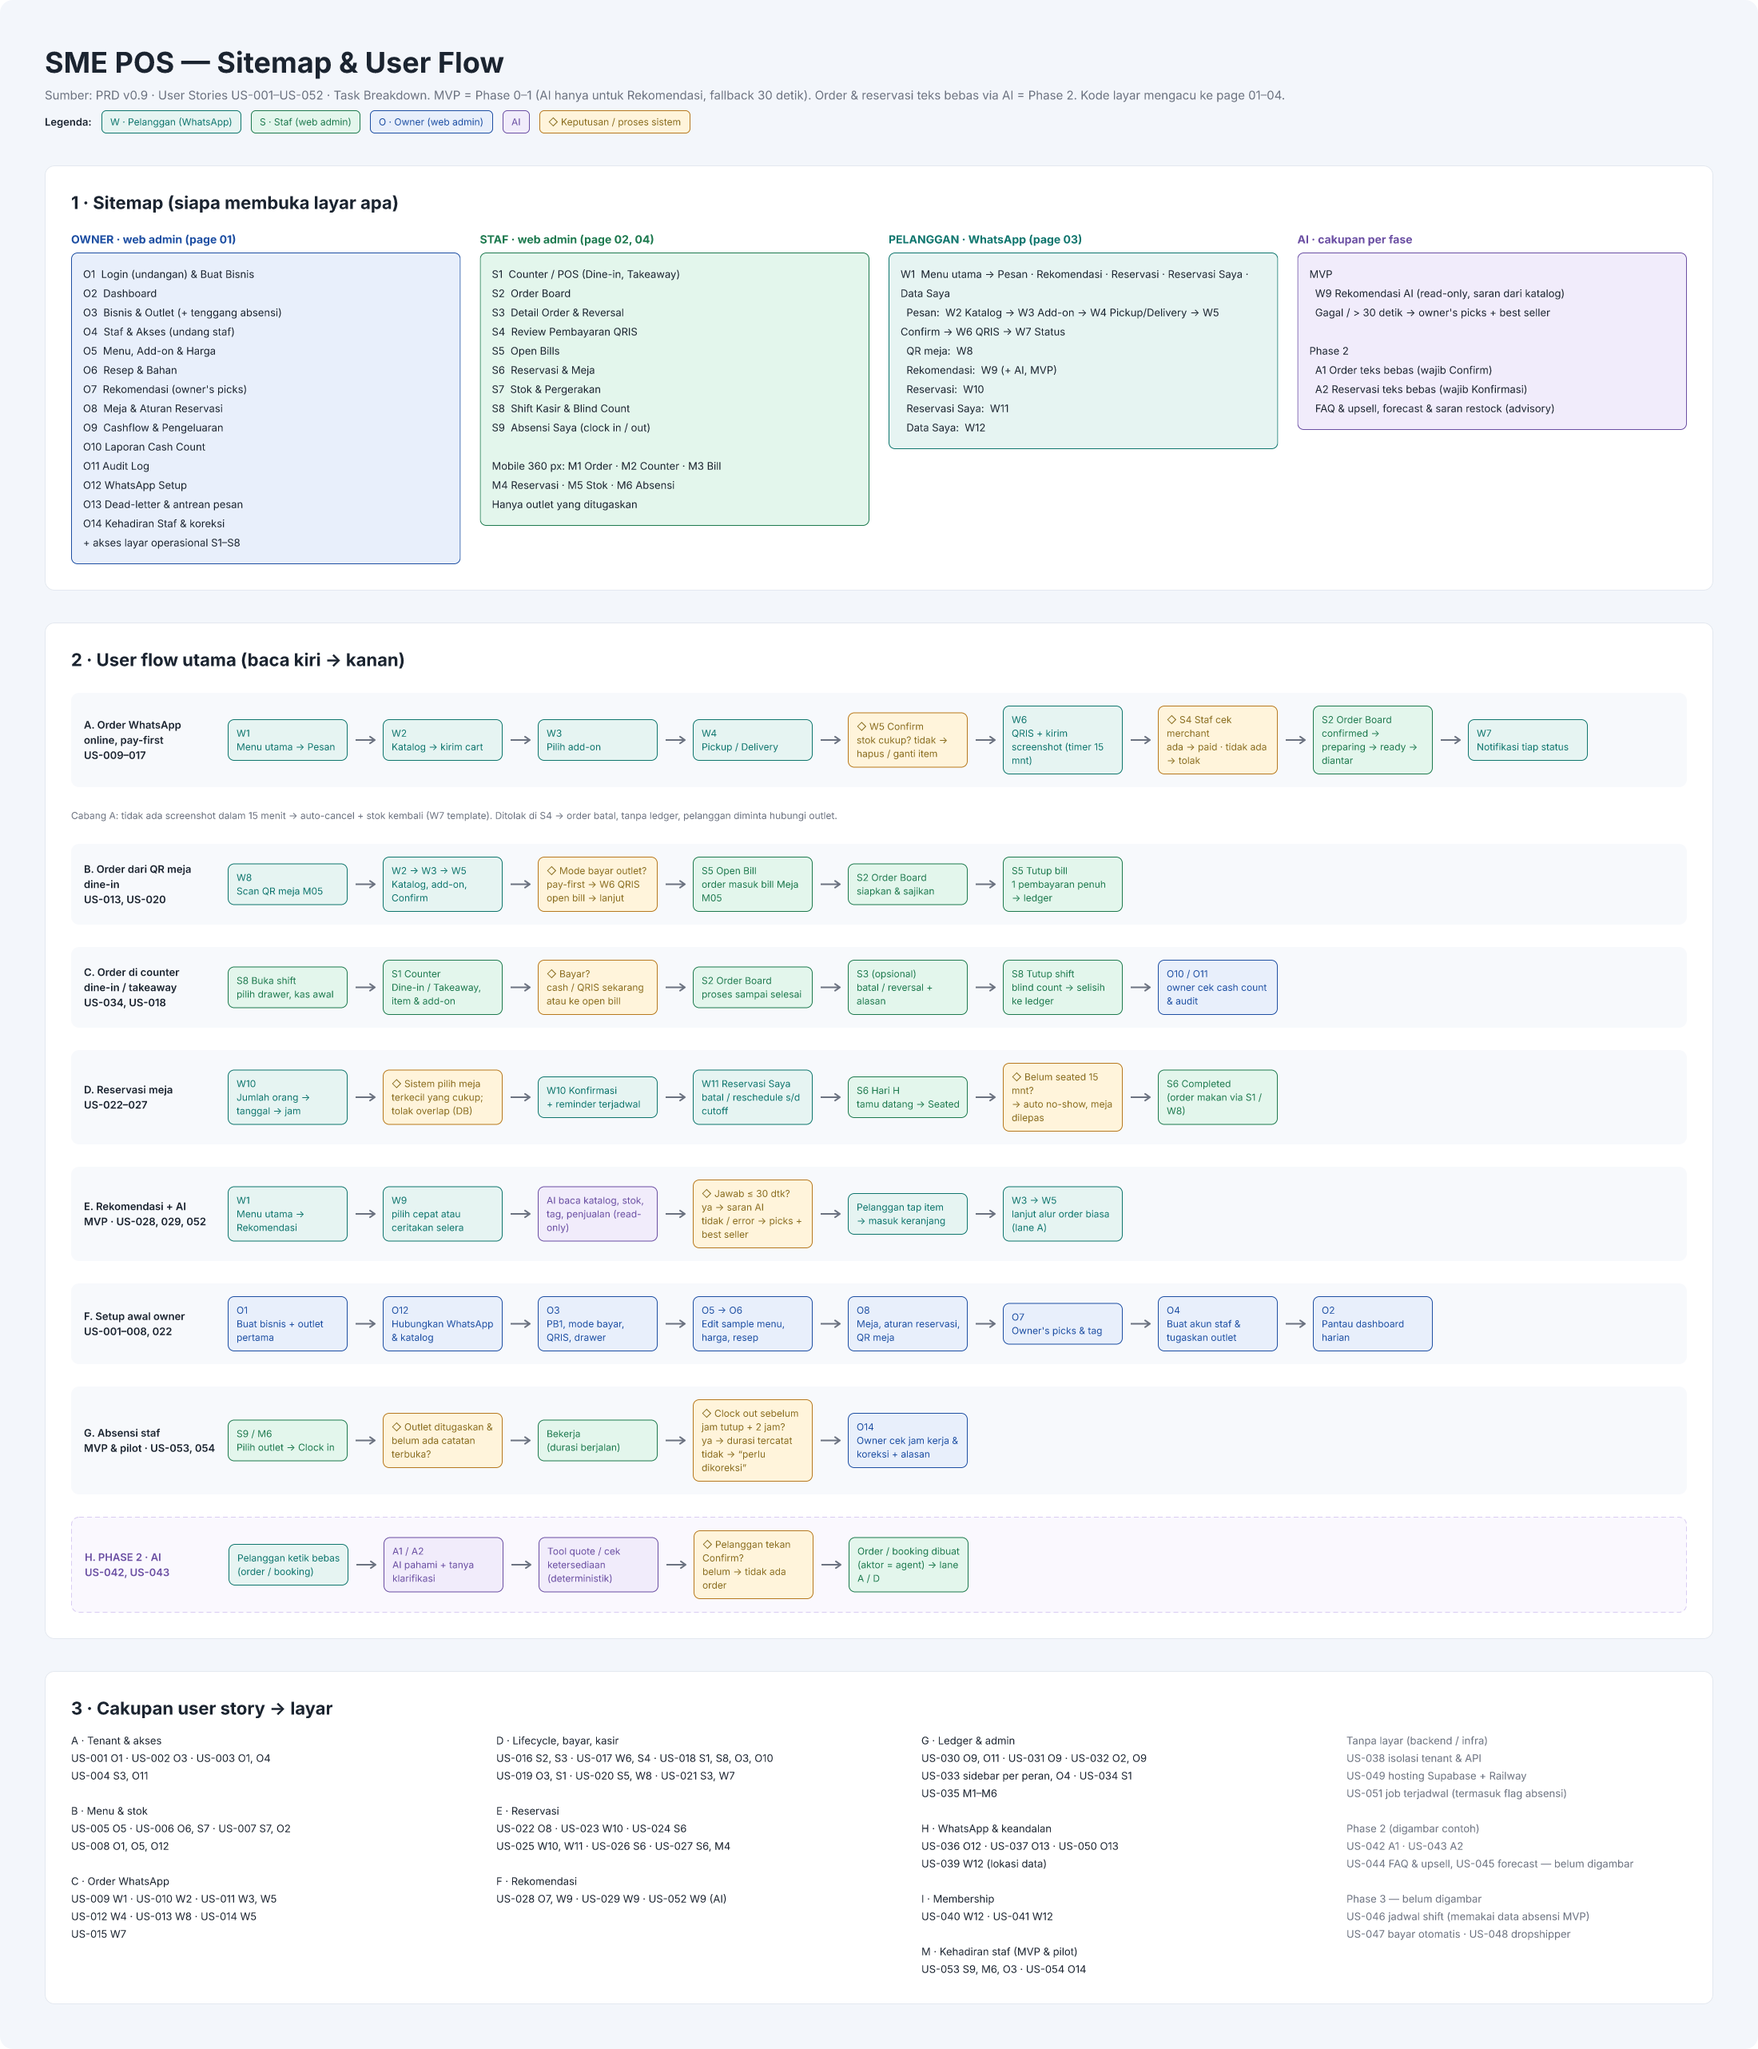
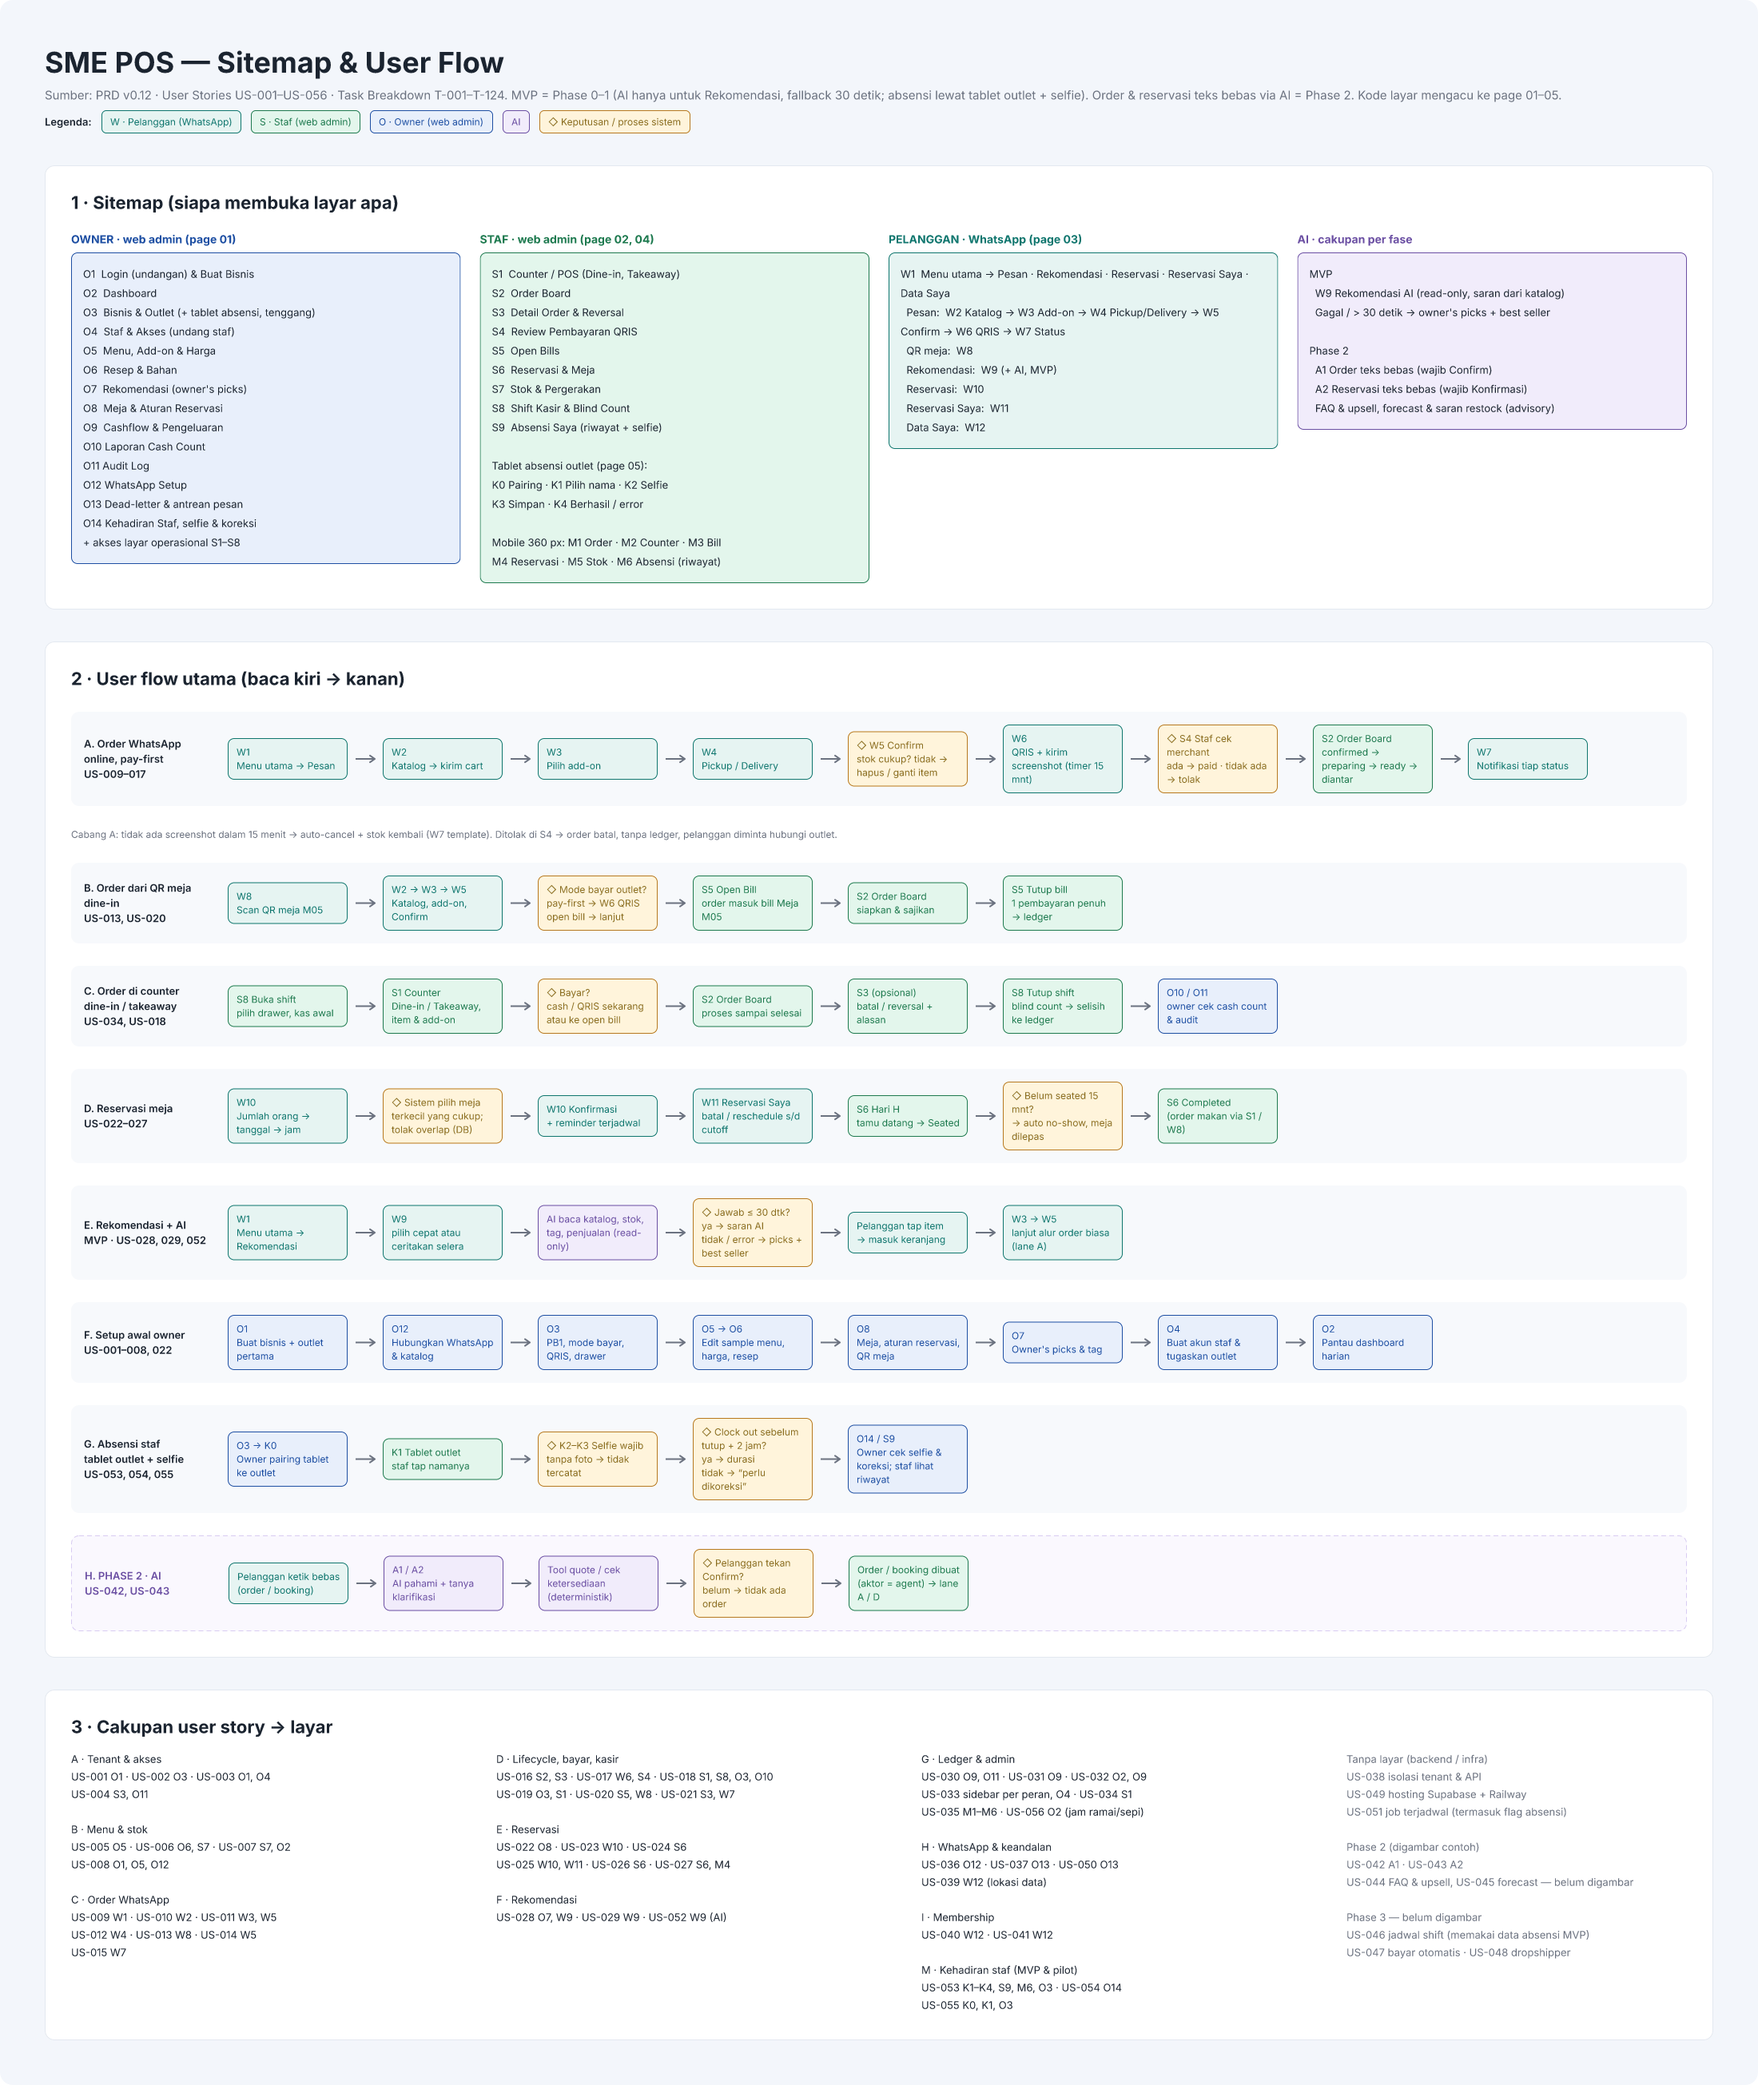
Add outlet attendance tablet wireframes and update traceability
Attendance is now recorded only on a paired outlet tablet with a
required selfie (PRD v0.11, US-053-US-055, T-116-T-122). Add page 05
with the tablet screens (pairing, pick name, selfie, confirm, result and
errors), turn S9 and M6 into read-only history, and add selfies and
tablet management to O14 and O3. The traceability table now covers
US-001-US-056 and T-001-T-124, including the busyness dashboard (US-056)
on O2. Previews are re-exported.

diff --git a/design/WIREFRAME-TRACEABILITY.md b/design/WIREFRAME-TRACEABILITY.md
@@ -2,7 +2,7 @@
 
 This document links every wireframe screen in [`SME-POS-Wireframe.figcraft`](SME-POS-Wireframe.figcraft) to the user stories in [User-Stories-SME-Automation-Platform.md](../User-Stories-SME-Automation-Platform.md) and the tasks in [Task-Breakdown-SME-Automation-Platform.md](../Task-Breakdown-SME-Automation-Platform.md).
 
-- **Baseline:** PRD v0.10, US-001–US-054, T-001–T-120.
+- **Baseline:** PRD v0.12, US-001–US-056, T-001–T-124.
 - **Open the file:** FigCraft (`figcraft SME-POS-Wireframe.figcraft`). PNG previews of each page are in [`previews/`](previews/).
 - **Labels:** every screen on the canvas has a label above it in the form `Code · Name — US-xxx · T-xxx`, matching the tables below.
 - **Fidelity:** low-to-mid fidelity wireframes. The colours follow the agreed reference (light sidebar, navy primary `#1E4FA3`, light-blue background `#F3F6FB`). Copy is in Bahasa Indonesia, as in the product.
@@ -16,6 +16,7 @@ This document links every wireframe screen in [`SME-POS-Wireframe.figcraft`](SME
 | 02 · Admin — Staff Ops | S1–S9 | [02-admin-staff.png](previews/02-admin-staff.png) |
 | 03 · WhatsApp Customer | W1–W12 (MVP), A1–A2 (Phase 2) | [03-whatsapp-customer.png](previews/03-whatsapp-customer.png) |
 | 04 · Mobile 360 | M1–M6 | [04-mobile-360.png](previews/04-mobile-360.png) |
+| 05 · Tablet Absensi Outlet | K0–K4 | [05-tablet-absensi.png](previews/05-tablet-absensi.png) |
 | 99 · Components | `Sidebar/Owner`, `Sidebar/Staff` | — |
 
 ## Screen → user story → task
@@ -25,8 +26,8 @@ This document links every wireframe screen in [`SME-POS-Wireframe.figcraft`](SME
 | Screen | User stories | Tasks |
 |---|---|---|
 | O1 Login (invite-only) & Buat Bisnis | US-001, US-002, US-003, US-008 | T-006, T-010, T-011, T-024, T-066 |
-| O2 Dashboard | US-032, US-033 | T-043, T-071 |
-| O3 Bisnis & Outlet (PB1, payment mode, QRIS, cash drawers, attendance grace period) | US-002, US-017, US-018, US-019, US-020, US-053 | T-011, T-014, T-039, T-066, T-118 |
+| O2 Dashboard + keramaian (busy/quiet hours, busyness map, current crowd) | US-007, US-032, US-033, US-056 | T-043, T-071, T-123, T-124 |
+| O3 Bisnis & Outlet (PB1, payment mode, QRIS, cash drawers, attendance tablets, grace period) | US-002, US-017, US-018, US-019, US-020, US-053, US-055 | T-011, T-014, T-039, T-066, T-118, T-121 |
 | O4 Staf & Akses (staff invitation, access matrix) | US-003, US-033 | T-006, T-012, T-013, T-066 |
 | O5 Menu, Add-on & Harga Outlet | US-002, US-005, US-008 | T-016, T-017, T-018, T-051, T-066 |
 | O6 Resep & Bahan | US-006, US-007 | T-019, T-021, T-022, T-066 |
@@ -37,7 +38,7 @@ This document links every wireframe screen in [`SME-POS-Wireframe.figcraft`](SME
 | O11 Audit Log | US-004, US-016, US-021 | T-031, T-101 |
 | O12 WhatsApp Setup & Template | US-002, US-008, US-015, US-036 | T-045, T-051, T-084, T-100 |
 | O13 Dead-letter & Antrean Pesan | US-036, US-037, US-050 | T-081, T-112 |
-| O14 Kehadiran Staf & Koreksi | US-053, US-054 | T-118, T-119 |
+| O14 Kehadiran Staf, Selfie & Koreksi | US-053, US-054 | T-118, T-119, T-122 |
 
 ### Staff (web admin)
 
@@ -51,7 +52,7 @@ This document links every wireframe screen in [`SME-POS-Wireframe.figcraft`](SME
 | S6 Reservasi & Meja (today) | US-024, US-026, US-027 | T-062, T-063, T-064, T-070 |
 | S7 Stok & Pergerakan | US-006, US-007 | T-020, T-022, T-069 |
 | S8 Shift Kasir & Blind Count | US-018, US-030 | T-039, T-040, T-070 |
-| S9 Absensi Saya (clock in / out) | US-053 | T-116, T-117 |
+| S9 Absensi Saya (own history and selfies; no clock-in here) | US-053 | T-116, T-117, T-122 |
 
 ### Customer (WhatsApp)
 
@@ -81,7 +82,17 @@ This document links every wireframe screen in [`SME-POS-Wireframe.figcraft`](SME
 | M3 Open Bill | US-020, US-035 | T-068, T-072 |
 | M4 Reservasi hari ini | US-026, US-027, US-035 | T-070, T-072 |
 | M5 Stok | US-006, US-007, US-035 | T-069, T-072 |
-| M6 Absensi | US-035, US-053 | T-072, T-117 |
+| M6 Absensi Saya (own history) | US-035, US-053 | T-072, T-117 |
+
+### Outlet attendance tablet
+
+| Screen | User stories | Tasks |
+|---|---|---|
+| K0 Pairing tablet ke outlet | US-055 | T-121 |
+| K1 Pilih nama staf | US-053, US-055 | T-116, T-117, T-121 |
+| K2 Ambil selfie (required) | US-053 | T-117, T-122 |
+| K3 Cek foto & simpan (+ first-use privacy notice) | US-053 | T-117, T-122 |
+| K4 Berhasil + error states (camera, offline, already clocked in, revoked tablet) | US-053, US-055 | T-117, T-121 |
 
 Role-aware navigation (`Sidebar/Owner`, `Sidebar/Staff`) covers US-003 and US-033 through T-013 and T-072.
 
@@ -136,8 +147,10 @@ Every MVP story has at least one screen, except the backend-only stories marked 
 | US-050 | O13 |
 | US-051 | — (scheduled jobs: T-104; the results show in W7, S6 and O14) |
 | US-052 | W9 |
-| US-053 | S9, M6, O3 |
+| US-053 | K1–K4, S9, M6, O3 |
 | US-054 | O14 |
+| US-055 | K0, K1, K4, O3 |
+| US-056 | O2 |
 | US-042 (Phase 2) | A1 |
 | US-043 (Phase 2) | A2 |
 | US-044, US-045 (Phase 2) | Not drawn yet |
@@ -165,6 +178,7 @@ Tasks that build a screen or a WhatsApp flow, and where to find them.
 | T-069 Stock screens | S7, M5 |
 | T-070 Reservation/table view and cashier shift | S6, S8, M4 |
 | T-071 Owner dashboard | O2 |
+| T-123, T-124 Busyness queries and dashboard views | O2 |
 | T-072 Role-aware navigation, 360 px responsive | sidebars, M1–M6 |
 | T-073 Owner picks, best sellers | O7, W9 |
 | T-074 Recommendation product message + add to cart | W9 |
@@ -175,9 +189,12 @@ Tasks that build a screen or a WhatsApp flow, and where to find them.
 | T-101 Audit log screen | O11 |
 | T-102 Cash count report | O10 |
 | T-112 Dead-letter visibility and replay | O13 |
-| T-117 Staff clock in/out screen | S9, M6 |
+| T-116 Attendance domain (tablet session, selfie required) | K1, S9 |
+| T-117 Attendance tablet screens + staff own history | K1–K4, S9, M6 |
 | T-118 Missing clock-out flag + grace-period setting | O3, O14, S9 |
-| T-119 Owner attendance report and corrections | O14 |
+| T-119 Owner attendance report, selfies and corrections | O14 |
+| T-121 Outlet attendance tablet pairing and device session | K0, K4, O3 |
+| T-122 Selfie storage, signed links, 90-day deletion | K2, K3, O14, S9 |
 | T-087, T-088 Phase 2 free-text order and reservation | A1, A2 |
 
 ## Decisions reflected in the wireframes
@@ -185,9 +202,10 @@ Tasks that build a screen or a WhatsApp flow, and where to find them.
 - Counter orders are **dine-in or takeaway** only; "walk-in" appears only as table occupancy for guests without a reservation (S6, M4).
 - AI in the MVP is limited to **Rekomendasi** (W9): read-only suggestions, an immediate "Sebentar ya…" reply, and a fallback to owner's picks + best sellers after an error or 30 seconds. Free-text ordering and booking are Phase 2 (A1, A2).
 - Staff accounts are **invite-only**; there is no public sign-up (O1, O4).
-- Attendance: a forgotten clock-out is flagged "perlu dikoreksi" without inventing a time; the owner corrects it with a required reason (S9, M6, O14).
+- Attendance is recorded only on the outlet's paired tablet (K0–K4): the staff member taps their name and takes a required selfie, so they must be at the outlet. Staff phones and the admin app only show their own history (S9, M6). Selfies are private, visible to the owner and the staff member, and deleted after 90 days.
+- A forgotten clock-out is flagged "perlu dikoreksi" without inventing a time; the owner checks selfies and corrects the record with a required reason (O14).
 
 ## Open points
 
-- Attendance verification (own login vs outlet QR or location check) is still open in the PRD. If a check is added, S9 and M6 need a scan or location step.
+- Still open in the PRD: selfie retention (90 days proposed), whether staff also enter a short PIN on the tablet, and the 2-hour grace period.
 - Phase 2 screens for US-044 (FAQ, upsell) and US-045 (forecast, restock suggestions), and all Phase 3 screens, are not drawn yet.
